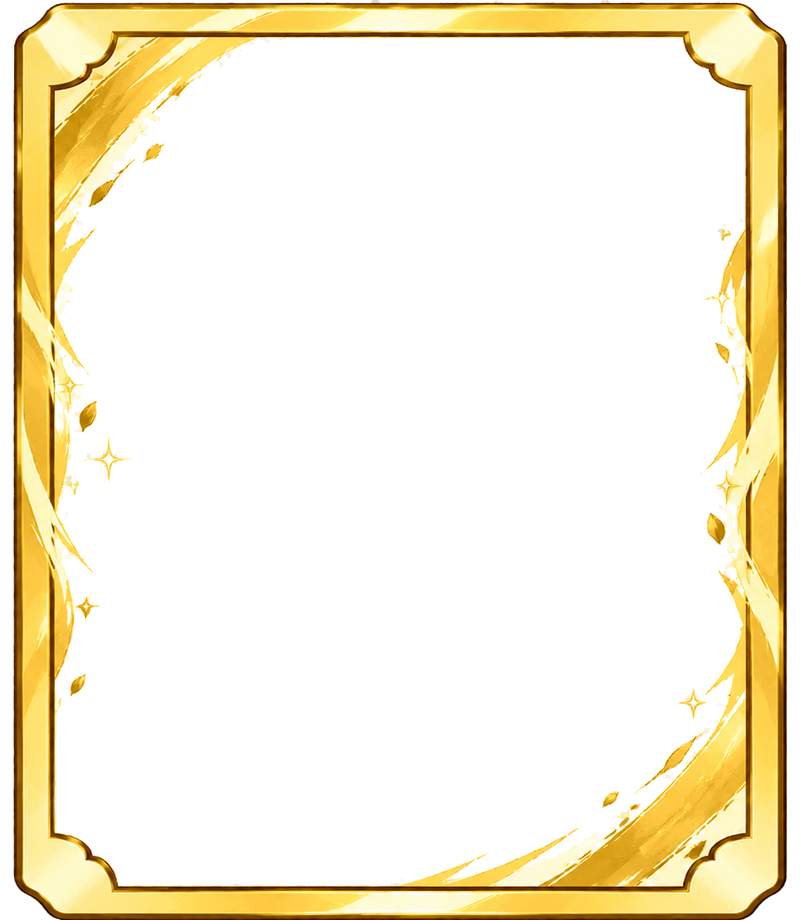
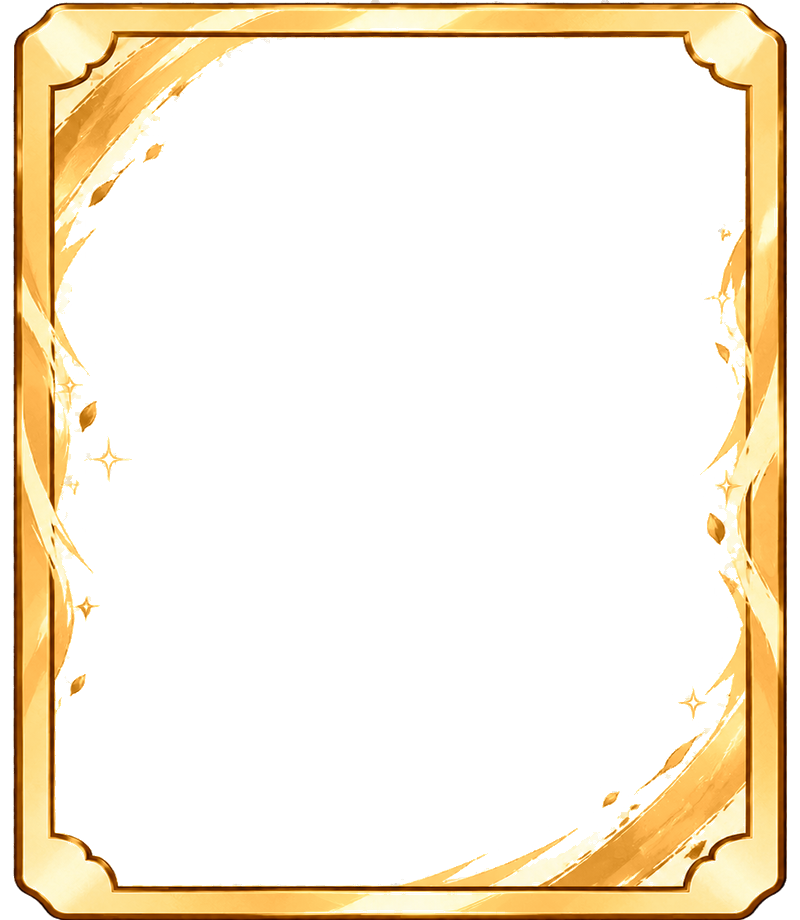
ラディエル：枠の色をカードの絵の枠 #BE7410 に・説明文をユーザーの文に／下げる4通り（R1〜R4）の試遊の記録
- RADIEL_COLOR・バトル用カードの枠・技カードの枠・名前のロゴの帯を #BE7410 に（パックの絵は縁の色の帯が無いので変えていない）
- 説明文：「天の聖域の奥に浮かぶ、光の輪をいただく白き翼。裁きを告げると伝えられる。」（英語は Celestial Sanctuary を使った文）
- R1〜R4 は測るだけ（数字の変更は入れていない）。表は docs/bi-radiel-20261105.md、JSON は docs/design/bi-radiel-20261105/trial_R*.json

Claude-Session: https://claude.ai/code/session_01GPUK2vKY8QbbX3cNYCAkTu

diff --git a/src/data/cardNameLogos.generated.ts b/src/data/cardNameLogos.generated.ts
@@ -27,7 +27,7 @@ export const CARD_NAME_LOGOS: Readonly<Record<string, CardNameLogo>> = {
   'mon-myurol': { file: 'name_ja_myurol.webp', x: 31, y: 47, w: 699, h: 190, frame: '#B8F1F6' },
   'mon-nobiton': { file: 'name_ja_nobiton.webp', x: 32, y: 48, w: 686, h: 189, frame: '#FBCC57' },
   'mon-pukarim': { file: 'name_ja_pukarim.webp', x: 32, y: 48, w: 648, h: 190, frame: '#B7E5D3' },
-  'mon-radiel': { file: 'name_ja_radiel.webp', x: 35, y: 50, w: 708, h: 194, frame: '#D9A21B' },
+  'mon-radiel': { file: 'name_ja_radiel.webp', x: 35, y: 50, w: 708, h: 194, frame: '#BE7410' },
   'mon-serephine': { file: 'name_ja_serephine.webp', x: 31, y: 48, w: 962, h: 190, frame: '#B1C1F2' },
   'mon-shishien': { file: 'name_ja_shishien.webp', x: 30, y: 47, w: 864, h: 190, frame: '#666766' },
   'mon-soramo': { file: 'name_ja_soramo.webp', x: 31, y: 48, w: 532, h: 189, frame: '#FACC79' },
@@ -51,7 +51,7 @@ export const CARD_NAME_LOGOS_EN: Readonly<Record<string, CardNameLogo>> = {
   'mon-myurol': { file: 'name_en_myurol.webp', x: 32, y: 48, w: 678, h: 226, frame: '#B8F1F6' },
   'mon-nobiton': { file: 'name_en_nobiton.webp', x: 32, y: 48, w: 689, h: 174, frame: '#FBCC57' },
   'mon-pukarim': { file: 'name_en_pukarim.webp', x: 32, y: 48, w: 778, h: 180, frame: '#B7E5D3' },
-  'mon-radiel': { file: 'name_en_radiel.webp', x: 34, y: 50, w: 545, h: 167, frame: '#D9A21B' },
+  'mon-radiel': { file: 'name_en_radiel.webp', x: 34, y: 50, w: 545, h: 167, frame: '#BE7410' },
   'mon-serephine': { file: 'name_en_serephine.webp', x: 31, y: 47, w: 836, h: 220, frame: '#B1C1F2' },
   'mon-shishien': { file: 'name_en_shishien.webp', x: 31, y: 47, w: 707, h: 176, frame: '#666766' },
   'mon-soramo': { file: 'name_en_soramo.webp', x: 32, y: 48, w: 679, h: 174, frame: '#FACC79' },

diff --git a/src/data/radiel.ts b/src/data/radiel.ts
@@ -12,10 +12,10 @@ import type { MonsterCard } from '../game/cards/cardTypes.ts';
  * 絵（原本は design-parts/bi-radiel-20261105/radiel/ に無改変。作り方は tools/art/radiel_assets.py）：
  * - 技 radiel_sk_01〜12.webp・正式モンスターカード radiel_official.webp（名前なし → 名前のロゴを重ねる）・バトル用 radiel_battlecard.png（無改変）
  * - パック pack_radiel.webp（袋のまわりの黒だけ透明に）・販売機の窓 panel_radiel.webp・ショップの棚の商品
- * 色：金 #D9A21B（指示書。バトル用カードの枠・技カードの枠・名前のロゴの帯）
+ * 色：金 #BE7410（正式カードの絵の枠の色。2026-11-05 ユーザー指示で指示書の #D9A21B から合わせた。バトル用カードの枠・技カードの枠・名前のロゴの帯・図鑑）
  */
 export const RADIEL_MONSTER_ID = 'mon-radiel';
-export const RADIEL_COLOR = '#D9A21B';
+export const RADIEL_COLOR = '#BE7410';
 
 export const RADIEL_MONSTER: MonsterCard = {
   kind: 'monster',
@@ -24,8 +24,8 @@ export const RADIEL_MONSTER: MonsterCard = {
   rarity: null,
   life: 9,
   themeColor: RADIEL_COLOR,
-  // 説明の文は Claude の仮（英語は contentEnOfficialDraft.ts）
-  description: '天の聖域の奥で、光の輪をいただき裁きを告げる者。',
+  // 2026-11-05 ユーザー決定の文（英語は contentEnOfficialDraft.ts）
+  description: '天の聖域の奥に浮かぶ、光の輪をいただく白き翼。裁きを告げると伝えられる。',
   isPlaceholder: false,
   art: { category: 'monsterCards', file: 'radiel_official.webp', layout: 'full' },
   battleArt: { category: 'monsterCards', file: 'radiel_battlecard.png', layout: 'full' },

diff --git a/tests/radiel.test.ts b/tests/radiel.test.ts
@@ -26,14 +26,14 @@ const sor = (n: number): string => `skl-soramo14-${String(n).padStart(2, '0')}`;
 const ky = (n: number): string => `skl-kuyo-${String(n).padStart(2, '0')}`;
 
 describe('ラディエルのデータ（指示書の表のとおり）', () => {
-  it('LIFE 9・空中・金 #D9A21B。ID は mon-radiel。ふつうの一覧に入る', () => {
+  it('LIFE 9・空中・金 #BE7410。ID は mon-radiel。ふつうの一覧に入る', () => {
     const m = getMonster(RADIEL_MONSTER_ID);
     expect(m.name).toBe('ラディエル');
     expect(m.life).toBe(9);
     expect(m.habitat).toBe('air');
     expect(MONSTER_HABITAT[RADIEL_MONSTER_ID]).toBe('air');
     expect(m.themeColor).toBe(RADIEL_COLOR);
-    expect(RADIEL_COLOR).toBe('#D9A21B');
+    expect(RADIEL_COLOR).toBe('#BE7410');
     expect(MONSTERS.some((x) => x.id === RADIEL_MONSTER_ID)).toBe(true);
   });
 
@@ -113,8 +113,8 @@ describe('ラディエルのデータ（指示書の表のとおり）', () => {
       expect(existsSync(f), f).toBe(true);
     }
     expect(BATTLE_CARDS[RADIEL_MONSTER_ID]?.frame).toBe('radiel');
-    expect(CARD_NAME_LOGOS[RADIEL_MONSTER_ID]?.frame).toBe('#D9A21B');
-    expect(CARD_NAME_LOGOS_EN[RADIEL_MONSTER_ID]?.frame).toBe('#D9A21B');
+    expect(CARD_NAME_LOGOS[RADIEL_MONSTER_ID]?.frame).toBe('#BE7410');
+    expect(CARD_NAME_LOGOS_EN[RADIEL_MONSTER_ID]?.frame).toBe('#BE7410');
     setLanguage('en');
     try {
       expect(cardName(RADIEL_MONSTER_ID)).toBe('Radiel');

diff --git a/src/data/battleCards.ts b/src/data/battleCards.ts
@@ -93,7 +93,7 @@ export const BATTLE_CARDS: Readonly<Record<string, BattleCardSpec>> = {
   [GEAROS_MONSTER_ID]: { art: 'gearos_battlecard.png', frame: 'gearos', scale: 0.86, offsetY: 0 },
   // クヨウ（2026-11-05 指示書 BH）：枠は霧の藤ねず（#87649C。カードの絵の枠の色）。絵は届いた kuyo_battlecard.png（1169×1346 透過）を無改変（毛先の半透明はそのまま）。ハクランと同じ大きさ・縦横比
   [KUYO_MONSTER_ID]: { art: 'kuyo_battlecard.png', frame: 'kuyo', scale: 0.8, offsetY: -0.02 },
-  // ラディエル（2026-11-05 指示書 BI）：枠は金（#D9A21B）。絵は届いた radiel_battlecard.png（1169×1346 透過）を無改変（光輪と光の尾の半透明はそのまま）。
+  // ラディエル（2026-11-05 指示書 BI）：枠は金（#BE7410。カードの絵の枠の色）。絵は届いた radiel_battlecard.png（1169×1346 透過）を無改変（光輪と光の尾の半透明はそのまま）。
   // 翼が絵の幅いっぱいまで広がるので、翼の先が枠の飾りに切られすぎない大きさ
   [RADIEL_MONSTER_ID]: { art: 'radiel_battlecard.png', frame: 'radiel', scale: 0.82, offsetY: -0.01 },
   // ガウル（2026-10-27）：枠はオレンジ（#E68A46。技カードの枠と同じ色）。絵はユーザーがチャットで届けた背景なしの絵（1169×1345・透明）を無改変

diff --git a/src/i18n/contentEnOfficialDraft.ts b/src/i18n/contentEnOfficialDraft.ts
@@ -400,7 +400,7 @@ export const OFFICIAL_DRAFT_EN: Readonly<Record<string, string>> = {
   'card:skl-kuyo-12:name': 'Into the Fog',
   // 2026-11-05 指示書 BI：ラディエル（名前は指示書のとおり。説明は仮訳）
   'card:mon-radiel:name': 'Radiel',
-  'card:mon-radiel:description': 'One who wears a ring of light deep in the Holy Sanctuary and pronounces judgment.',
+  'card:mon-radiel:description': 'A white-winged being crowned with a ring of light, floating deep in the Celestial Sanctuary. It is said to pronounce judgment.',
   'card:skl-radiel-01:name': 'Holy Thrust',
   'card:skl-radiel-02:name': 'Cross Needle',
   'card:skl-radiel-03:name': 'Light Orb',

diff --git a/tools/art/skillcard_simple_build.py b/tools/art/skillcard_simple_build.py
@@ -54,7 +54,7 @@ MONSTER_COLORS = {
     'uzurio': '#3D8FD6',  # 2026-11-02 ウズリオ（はっきりした空色。指示書 AQ）
     'tyrant': '#A31523',  # 2026-11-05 タイラント（真っ赤。カードの絵の枠の色。指示書 AX）
     'gearos': '#945247',  # 2026-11-05 ギアロス（赤銅。カードの絵の枠のまま。指示書 AX）
-    'radiel': '#D9A21B',  # 2026-11-05 ラディエル（金。指示書 BI）
+    'radiel': '#BE7410',  # 2026-11-05 ラディエル（金。カードの絵の枠の色。BI のあとユーザー指示）
     'kuyo': '#87649C',  # 2026-11-05 クヨウ（霧の藤ねず。カードの絵の枠の色。指示書 BH の直し）
     # 仮のモンスター（cards.ts の MONSTER_SEEDS・TMP_BOSS_SEEDS）
     'a': '#d65a4a',

diff --git a/tools/art/skillcard_v3_build.py b/tools/art/skillcard_v3_build.py
@@ -55,7 +55,7 @@ MONSTER_COLORS = {
     'uzurio': '#3D8FD6',  # 2026-11-02 ウズリオ（はっきりした空色。指示書 AQ）
     'tyrant': '#A31523',  # 2026-11-05 タイラント（真っ赤。カードの絵の枠の色。指示書 AX）
     'gearos': '#945247',  # 2026-11-05 ギアロス（赤銅。カードの絵の枠のまま。指示書 AX）
-    'radiel': '#D9A21B',  # 2026-11-05 ラディエル（金。指示書 BI）
+    'radiel': '#BE7410',  # 2026-11-05 ラディエル（金。カードの絵の枠の色。BI のあとユーザー指示）
     'kuyo': '#87649C',  # 2026-11-05 クヨウ（霧の藤ねず。カードの絵の枠の色。指示書 BH の直し）
 }
 

diff --git a/tools/art/card_name_logos.py b/tools/art/card_name_logos.py
@@ -23,7 +23,7 @@ GLYPH_EN = {'left': 40, 'top': 48, 'height': 170}
 
 # 枠の色を測らずに決めた色を使う子（2026-11-05 指示書 BH：クヨウの正式カードは 1016×1698 で、ほかの子〔970×1622〕と帯の位置が違うため。
 # 直しでユーザー決定：カードの絵の枠の色 #87649C）
-FRAME_COLOR = {'kuyo': '#87649C', 'radiel': '#D9A21B'}  # ラディエル：指示書 BI の金
+FRAME_COLOR = {'kuyo': '#87649C', 'radiel': '#BE7410'}  # ラディエル：カードの絵の枠の金（BI のあとユーザー指示）
 
 
 def frame_color(key: str) -> str:

diff --git a/docs/bi-radiel-20261105.md b/docs/bi-radiel-20261105.md
@@ -101,3 +101,27 @@
 - iPhone 実機での確認
 - 最後の審判・天の恵みの正式のアイコン
 - 天の聖域そのもの（中身は仮のまま）
+
+---
+
+# BI のあと（2026-11-05 ユーザー指示。BI は合格）
+
+- **枠の色をカードの絵の枠の金 #BE7410 に**（`RADIEL_COLOR`・バトル用カードの枠・技カードの枠・名前のロゴの帯・図鑑）。
+  パックは、届いた絵に縁の色の帯が無い（窓の絵が金の線まで届いている）ので、パックの絵は変えていない
+- **説明文**：「天の聖域の奥に浮かぶ、光の輪をいただく白き翼。裁きを告げると伝えられる。」／
+  "A white-winged being crowned with a ring of light, floating deep in the Celestial Sanctuary. It is said to pronounce judgment."（天の聖域の英語名は今の "Celestial Sanctuary"）
+- ラディエルを下げる4通り（R1〜R4）は測るだけ（別の作業場所で数字だけ変えて測った。main に入れていない）。JSON `docs/design/bi-radiel-20261105/trial_R1〜R4.json`
+
+## ラディエルを下げる4通り（1体入れ替え・腕前 A どうし・各 10,800 戦。目標はレア抜き・レアありとも 72〜76％）
+
+| 案 | 変えた数字 | レア抜き | レアあり | 山札切れ（レア抜き） | 山札切れ（レアあり） |
+| --- | --- | --- | --- | --- | --- |
+| 今のラディエル（比べる用） | — | 80.5 | 76.8 | 31.4％ | 35.4％ |
+| R1 | LIFE 9 → 8 | 74.7 | 71.3 | 34.8％ | 38.2％ |
+| R2 | クロスニードル 5 → 4 | 78.8 | 75.3 | 34.4％ | 37.3％ |
+| R3 | せいなるつき 3 → 2 | 77.7 | 74.8 | 35.0％ | 38.3％ |
+| **R4** | **R2 ＋ R3** | **75.3** | **73.0** | 38.7％ | 40.4％ |
+| ギアロス（比べる用） | — | 75.7 | 78.0 | 36.4％ | 37.5％ |
+
+- 両方とも 72〜76％ に入ったのは **R4** だけ。R1 はレア抜きは入るが、レアありが 71.3％ で少し低い
+- 山札切れは R4 がいちばん増える（レア抜き +7.3・レアあり +5.0 ポイント）

diff --git a/docs/handoff.md b/docs/handoff.md
@@ -1,10 +1,16 @@
-# 引き継ぎメモ（2026-11-05 深夜：指示書 BI ラディエルを main に入れた・未公開・公開ページはまだ開ける）
+# 引き継ぎメモ（2026-11-05 深夜：指示書 BI のあと〔ラディエルの色・説明文〕を main に入れた・数字は返事待ち・未公開）
 
 新しいセッションで読むのは `CLAUDE.md` とこのファイルだけ。他の資料は必要になったときに1つずつ読む。
 
 ## 0. 次のセッションへ
 
-### まず読む：いまの状態（2026-11-05 深夜 指示書 BI のあと）
+### まず読む：いまの状態（2026-11-05 深夜 BI のあと：色・説明文）
+
+- BI はユーザー合格。ラディエルの枠の色を **#BE7410**（カードの絵の枠）に・説明文をユーザーの文に（日英）。main に入れた・未公開（ブランチ `bi2-radiel`）
+- ラディエルを下げる4通り R1〜R4 を測った（**main には入れていない**）。表は `docs/bi-radiel-20261105.md` の最後。72〜76％ に両方入ったのは R4（クロスニードル 5→4 ＋ せいなるつき 3→2：75.3／73.0％）
+- **ユーザーの返事待ち**：ラディエルの数字（R1〜R4 のどれにするか）。決まったらアウレリオ（lifeScale）と大会 S（RANK_SCALE）を合わせ直す
+
+### その前：いまの状態（2026-11-05 深夜 指示書 BI のあと）
 
 - **指示書 BI（ラディエル・天の聖域の切り札・A）を main に入れた・未公開**（ブランチ `bi-radiel`）。記録 `docs/bi-radiel-20261105.md`（試遊の表・要確認13・未完了）
   - アウレリオの切り札をラディエルに・lifeScale 1.66→**1.74**（9.6％）・大会 S の RANK_SCALE 1.05→**1.13**（13.4％）。S の目安のプレイヤーはラディエルも持つ
